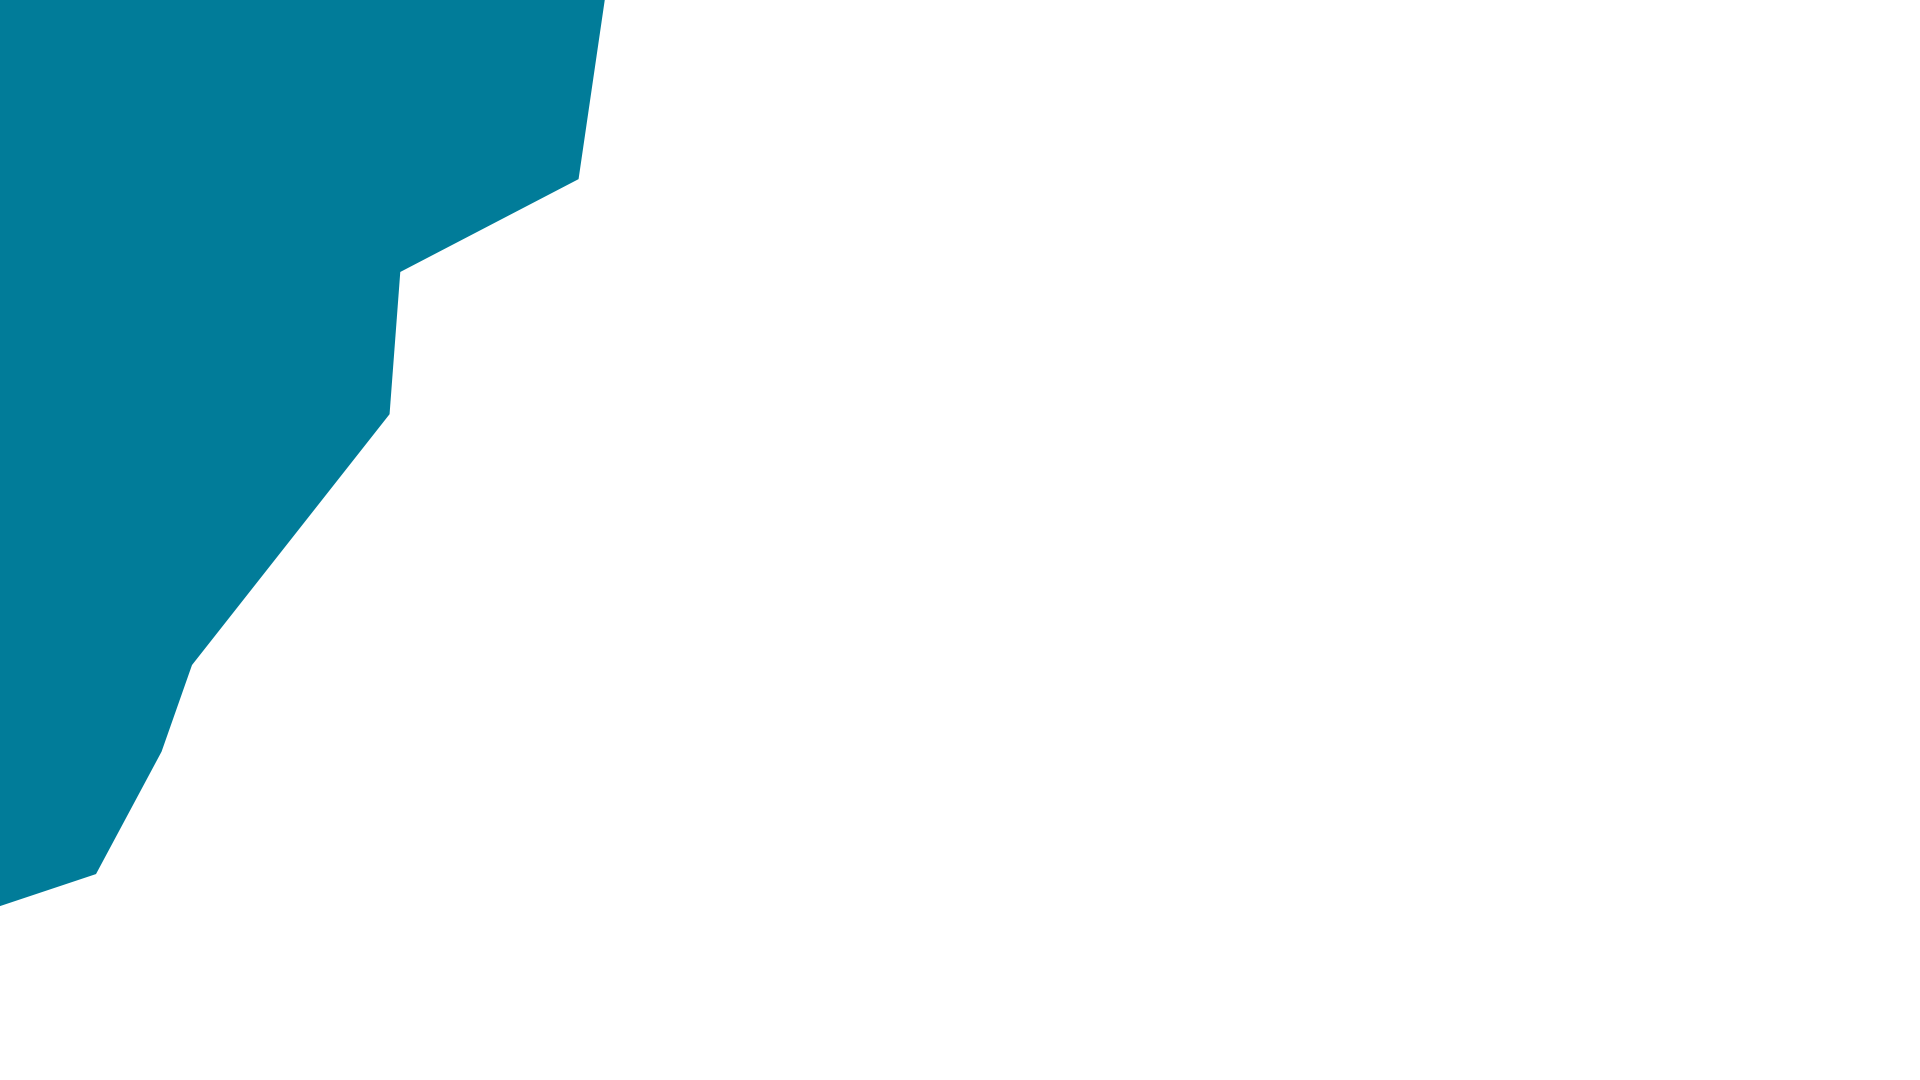
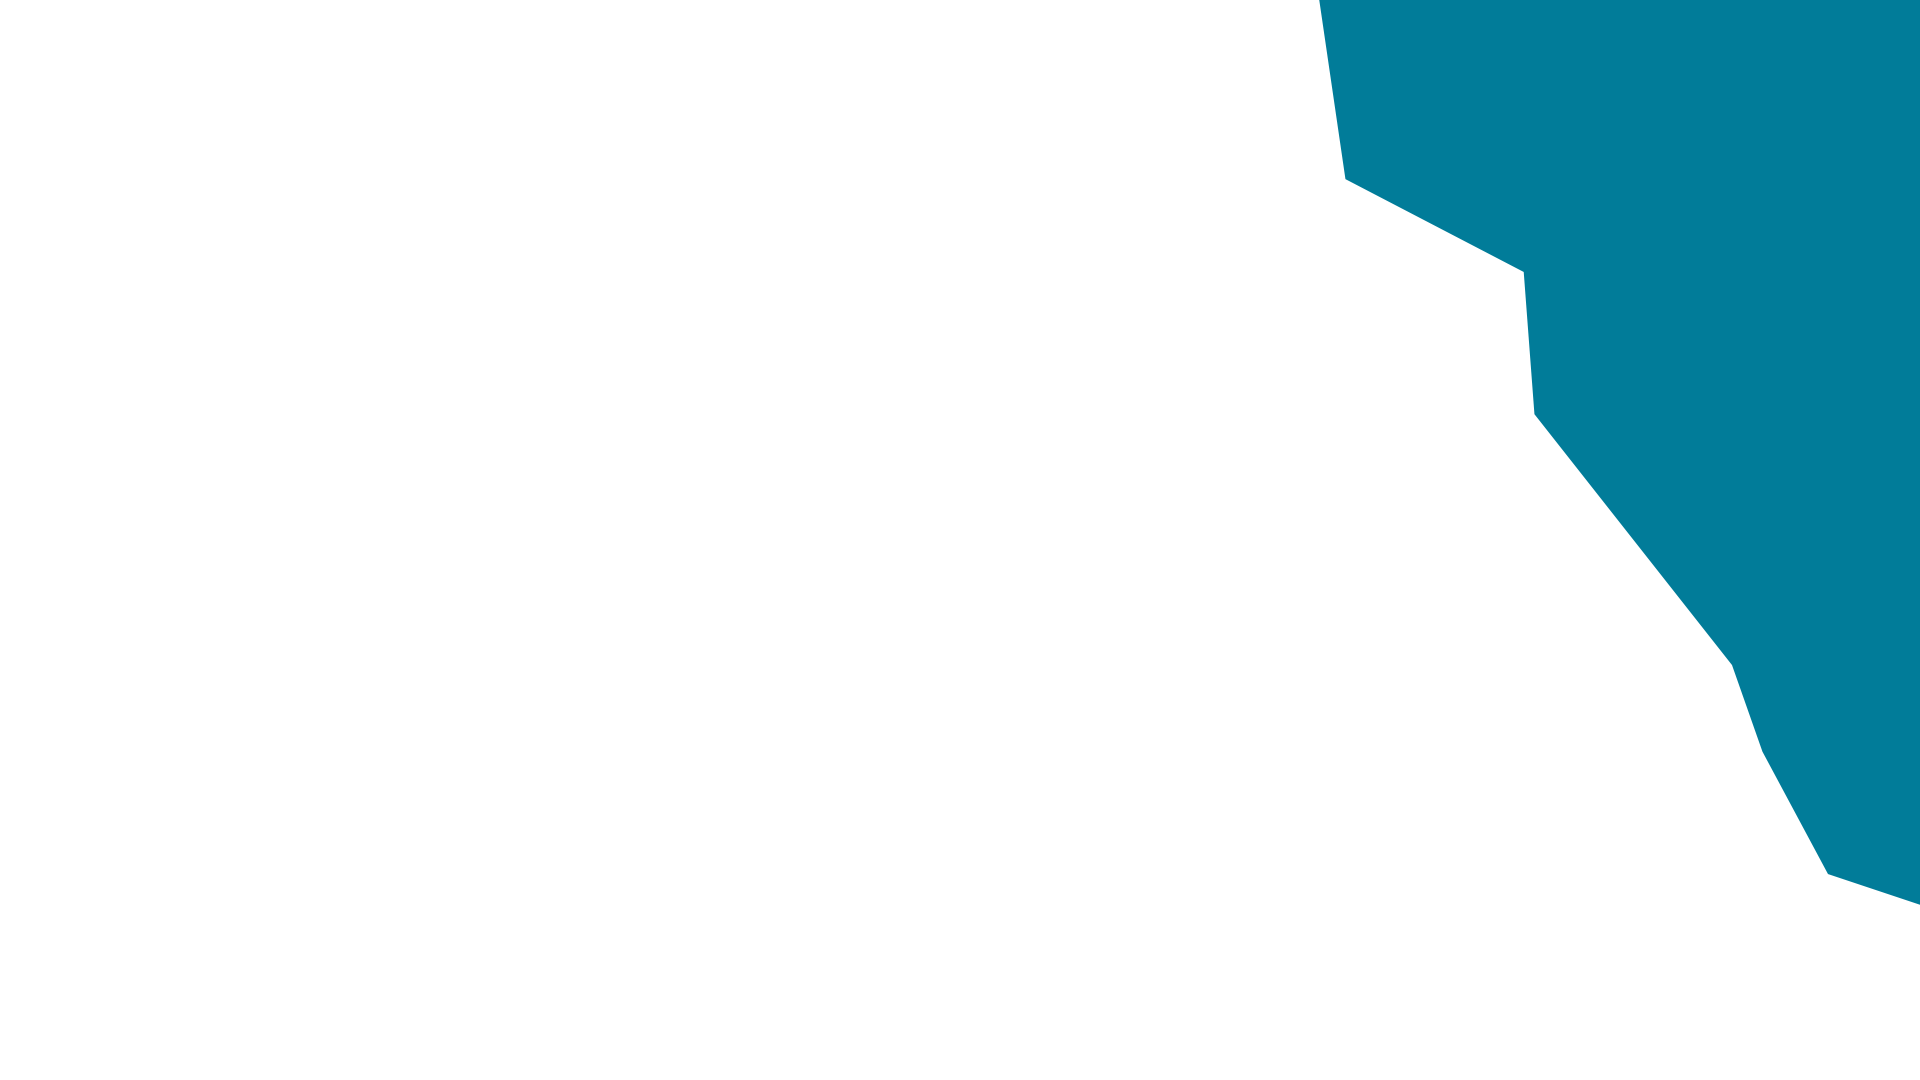
changes

diff --git a/site-scrolly/script/script.js b/site-scrolly/script/script.js
@@ -28,21 +28,21 @@ document.addEventListener("DOMContentLoaded", (event) => {
       markers: false,
       trigger: ".algues-chap1",
       scrub: 5,
-      start: '10% 75%',
-      end: '80% 10%',
+      start: "10% 75%",
+      end: "80% 10%",
     },
     x: "-100%",
   });
 
-  gsap.to(".algues-chap1-2", {
+  gsap.to(".algues-premier-plan", {
     scrollTrigger: {
-      markers: true,
-      trigger: ".algues-chap1-2",
+      markers: false,
+      trigger: ".algues-premier-plan",
       scrub: 5,
-      start: '10% 75%',
-      end: '80% 10%',s
+      start: "10% 75%",
+      end: "80% 10%",
     },
-    x: "-100%",
+    x: "-115%",
   });
 });
 

diff --git a/site-scrolly/css/styles.css b/site-scrolly/css/styles.css
@@ -18,6 +18,7 @@ body {
   border: none;
   margin: 0;
   height: 600vh;
+  width: 100vw;
 }
 
 header {
@@ -128,10 +129,11 @@ section.chapitre1 {
   position: relative;
 }
 
-.algues-chap1-2 {
+.algues-premier-plan {
   bottom: 0;
-  left: 0;
+  left: 100px;
   width: 350%;
+  position: relative;
 
 }
 /*---------------------------------------------------------- 

diff --git a/site-scrolly/index.html b/site-scrolly/index.html
@@ -49,7 +49,7 @@
           <img
           src="images/chap1/algues5-chap1.png"
           alt="algues-chap1-2"
-          class="algues-chap1-2"
+          class="algues-premier-plan"
         />
         </div>
       </section>
